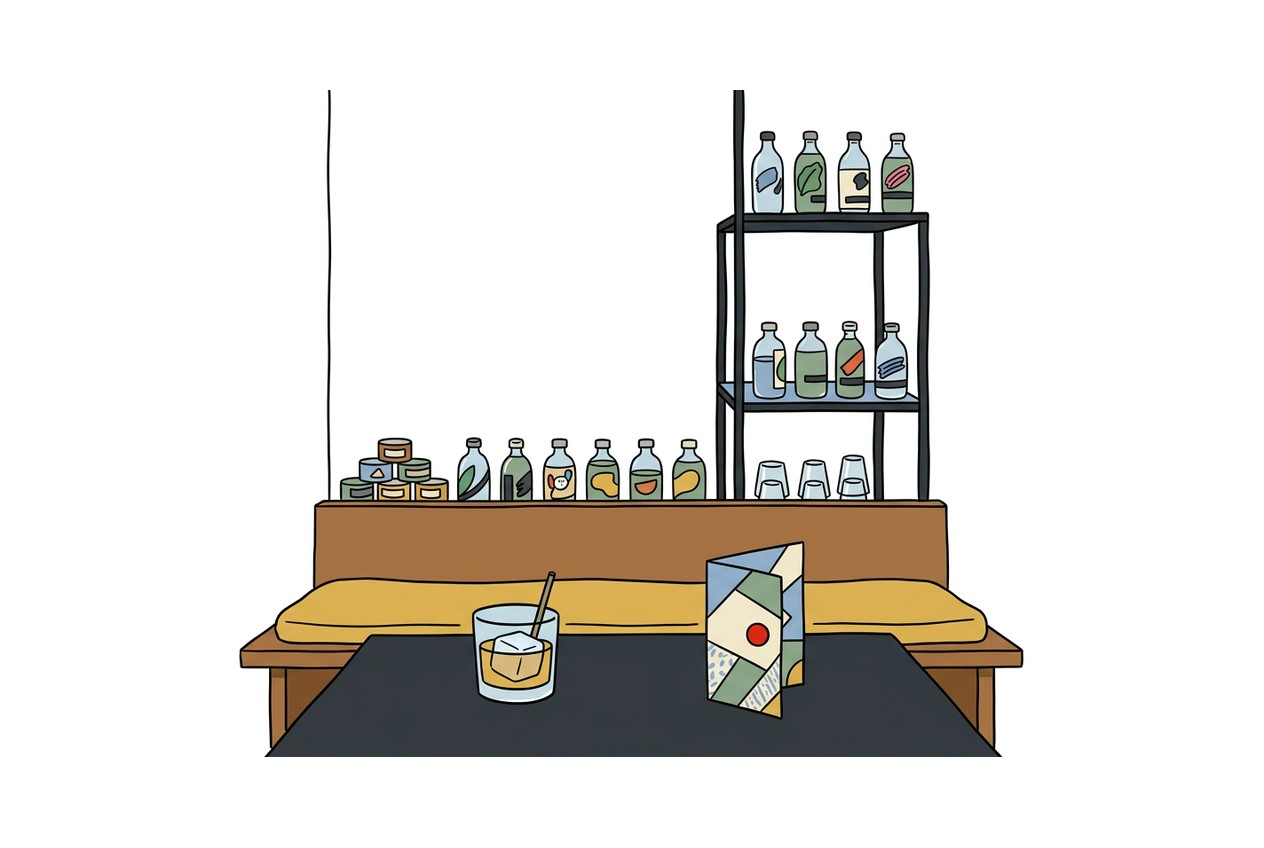
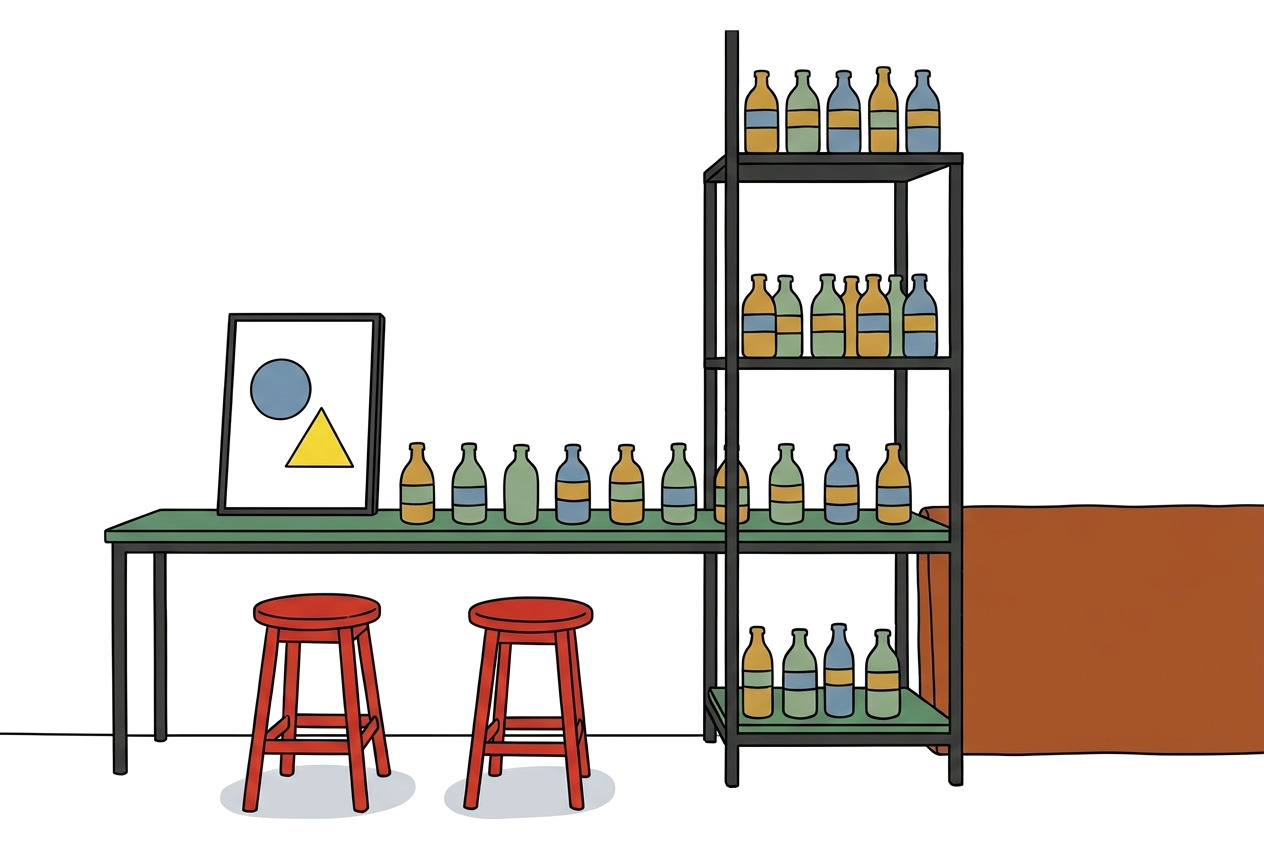
Redraw the five illustrations that read as the wrong place
First pass of the image audit, working from A1 of the README list.

Redrawn from their own photographs, at the published dimensions:

- illo-case-shapes-savage.jpg: the black steel bottle shelf on the green
  laminate table, colour-banded bottles, two red stools on the floor, the
  framed blue-circle / yellow-triangle poster standing on the table, the
  rust-brown wall panel. The stray frame lines, the diagonal strut and the
  floating card are gone.
- illo-case-sensory-talalay.jpg: the board with its lit rim, the iced
  tumbler, the two canapés, a second board behind on the same surface. The
  waterline is horizontal, the ice sits below it, the straw ends under the
  water, and the pastel confetti that broke the two-colour palette is gone.
- illo-case-dave-arnold.jpg: the pour now exists — tin raised, julep
  strainer over its mouth, a thin stream into the coupe held low, one curl
  of vapour on the glass; the counter has a front edge and the tools stand
  on it.
- illo-figure-zarkov.jpg: the man in the source photograph — long dark hair,
  beard, white tee, a single white armchair, the water bottle on the floor.
  The previous drawing was a different man in a café.
- illo-figure-talalay.jpg: behind the counter, one arm raised with a small
  tumbler, stone linen overshirt over the white tee with its red-orange
  circle, arches, bottle shelf and pendant lamp behind.

Each file was run through tools/normalize-artwork-paper.js so its paper is
[…]

diff --git a/presentation/build/illustration-prompts.md b/presentation/build/illustration-prompts.md
@@ -48,16 +48,33 @@ blank or carry ruled lines only.
 | `m10-mockup.png` | `illo-m10-mockup.jpg` | 1264 × 843 | A designer's bench: a person in a hoodie placing the last wall panel onto a cut-card model of a bar on a slim round turntable; a cutting mat with a plain ruler, a scalpel, a steel rule, a glue stick, a blank tablet with an empty plan outline, a clip-on task light and a plant — every surface blank, no lettering | the tiny pendant lamp in the model |
 | `case-benfiddich-kayama.png` | `illo-case-benfiddich-kayama.jpg` | 1264 × 848 | Hanging herbs, botanical jars and shelves, a mortar and a hand pouring a green drink into a glass | one small bottle cap |
 | `case-black-swan-bobkov.png` | `illo-case-black-swan-bobkov.jpg` | 1264 × 848 | Ornate door at left, framed art, an armchair, beer taps and a table with a teapot and candelabrum | the armchair cushion |
-| `case-shapes-savage.png` | `illo-case-shapes-savage.jpg` | 1264 × 848 | Three cocktails, a geometric menu and a hand with pencil; circle, square and triangle on the bar front | one cocktail garnish |
+| `case-shapes-savage.png` | `illo-case-shapes-savage.jpg` | 1264 × 848 | The room from the source photograph: black steel bottle shelving standing on a green laminate table, bottles carrying colour-coded bands; a framed poster with a blue circle and a yellow triangle standing on the table; two red stools on the floor in front; the rust-brown wall panel at the right | the two red stools |
 | `case-sips-caporale.png` | `illo-case-sips-caporale.jpg` | 1264 × 848 | Bartender shaking a drink inside an open round counter, guests’ hands and sculptural cocktail vessels | one cocktail garnish |
 | `case-el-copitas-zernov.png` | `illo-case-el-copitas-zernov.jpg` | 1264 × 848 | Courtyard with central arched doorway and curtain, paper bunting, potted plants, clay cups and cactus | one bunting flag |
 | `case-city-space-narzi.png` | `illo-case-city-space-narzi.jpg` | 1264 × 848 | Top-down L-shaped bar plan with stools, ice well, workflow arrows, bar tools and a stopwatch | a stopwatch button |
-| `case-sensory-talalay.png` | `illo-case-sensory-talalay.jpg` | 1264 × 848 | Pipette bottles and tasting glasses, an aroma glass with scent swirls, a hand with a test tube and a scale | one pipette cap |
+| `case-sensory-talalay.png` | `illo-case-sensory-talalay.jpg` | 1264 × 848 | The source photograph's board: a thick wooden serving board with a carved rim on a low foot, its rim traced by one thin pale-cyan neon line; a tall tumbler of iced water with a straw standing on it, a dark canapé at the left and a leaf-wrapped canapé at the right; one smaller paler board behind, both on the same surface | the red band at the top of the straw |
 | `case-jiro-ono.png` | `illo-case-jiro-ono.jpg` | 1264 × 848 | Diagonal sushi counter with one nigiri, rice tub, bamboo mats, knife, dipping dish and brush | the fish on the nigiri |
 | `case-krasota-zarkov.png` | `illo-case-krasota-zarkov.jpg` | 1264 × 848 | The circular projection table of Krasota seen from a raised angle: seascape and shoreline spread across the tabletop, a burning ship, a black central void, plates and glasses, the ring of guests, the curved screen of sea and blossom, two waiters standing at the far edge | the cushion beside the right-hand guest |
-| `case-dave-arnold.png` | `illo-case-dave-arnold.jpg` | 1264 × 848 | The bartender behind a plain white counter, shaker raised overhead, coupe glass in the lower hand with a curl of vapour, a jigger, fine strainer, stacked coupes and a mixing pitcher laid out along the counter | the ring on his finger |
+| `case-dave-arnold.png` | `illo-case-dave-arnold.jpg` | 1264 × 848 | The bartender in a charcoal sweater over a checked collar, pouring from a raised shaker tin through a julep strainer into a coupe held low in the other hand, a thin stream joining the two, one curl of vapour rising off the glass; a counter with a real front edge carrying a jigger, a fine strainer, two stacked coupes and a mixing pitcher, each group with one flat shadow | the ring on his finger |
 | `case-rene-redzepi.png` | `illo-case-rene-redzepi.jpg` | 1264 × 848 | The chef laughing with both hands on his hips, navy tee and grey canvas apron, herbs rising from the chest pocket, warm wall panel and a shelf of plain bowls behind him | the apron tie |
 | `case-alex-kratena.png` | `illo-case-alex-kratena.jpg` | 1264 × 848 | The bar owner in a black cap, clear glasses and a black utility gilet over a grey tee, phone in hand, tattooed left forearm, the second figure drawn in pale outline behind him, a sage-green bar front with a wooden top at the left | the stirrer standing in the glass on the counter |
+
+## Redraw pass — October 2026
+
+The case-card rows above were brought back in line with the published files. Three cards and two
+portraits were redrawn from their photographs because the resemblance had stopped being obvious; the
+review that produced the list, and the reasons for each call, are in `illustration-audit.md`.
+
+Redrawn: `illo-case-sensory-talalay.jpg` (the board, the iced glass and the lit rim of the
+photograph, instead of an invented pipette still life), `illo-case-shapes-savage.jpg` (the green
+table, colour-coded bottle shelf and red stools of the room), `illo-case-dave-arnold.jpg` (a real
+pour joined by a stream, a counter with an edge), `illo-figure-zarkov.jpg` and
+`illo-figure-talalay.jpg` (both were drawn as different men in different rooms than their sources).
+
+When redrawing from a photograph, keep the four anchors the reader uses to recognise a place: the
+room's palette, the counter material, the signature object and the subject's garment. Then check the
+picture against the list in `illustration-audit.md` §9 — support, hands, liquids, one horizon,
+palette, no foreground left in outline — before it is published.
 
 ## Lesson headers
 
@@ -105,6 +122,8 @@ replaced with blank panels, never retyped.
 | Asset | Source | Scene | Red accent |
 | --- | --- | --- | --- |
 | `illo-figure-zernov.jpg` | `figure-zernov.jpg` | Smiling man with round amber glasses and short beard, oversized black tee, takeaway cup with straw, brick basement pass with bamboo steamers, rice cooker and pendant lamp | the blank LED tally board |
+| `illo-figure-zarkov.jpg` | `figure-zarkov.jpg` | Long dark-brown hair and beard, white crew-neck tee, dark trousers, sitting relaxed in a white armchair with one ankle over the opposite knee, a clear water bottle on the paper floor beside the chair | the bottle cap |
+| `illo-figure-talalay.jpg` | `figure-talalay.jpg` | Bald man with round glasses and a short grey beard standing behind a bar counter, stone linen overshirt over a white tee, one arm raised with a small tumbler, the other hand flat on the counter; two arches, a bottle shelf and a pendant lamp behind | the round orange-red graphic on the tee |
 | `illo-author-passie-2022.jpg` | `author-passie-2022.jpg` | Blush-pink cake room: garlanded L-counter, white vintage espresso machine, crystal chandelier, pink retro TV, blank menu panels, folding chairs, round table | the rose bouquet in the vase |
 | `illo-author-coocoo-2024.jpg` | `author-coocoo-2024.jpg` | Hand pouring a glass coffee pot into a cobalt cup with two googly eyes on a tray, blue patterned tabletop, blue wall with cream band | the wall stripe at the top |
 | `illo-author-pacific-2024.jpg` | `author-pacific-2024.jpg` | Two-view sheet of the wedge-shaped blackened-steel Mirain station: ice wells, four built-in pumps, drip tray, hanging glasses, casters | one pump button |

diff --git a/presentation/build/illustration-audit.md b/presentation/build/illustration-audit.md
@@ -252,6 +252,14 @@ room's palette — and mark the two cards above for a redraw from the photograph
 
 ## 8. Fix plan
 
+**Progress, 28 October 2026.** The five P0 assets below were redrawn from their photographs and
+published: `illo-case-sensory-talalay.jpg`, `illo-case-shapes-savage.jpg`,
+`illo-case-dave-arnold.jpg`, `illo-figure-zarkov.jpg`, `illo-figure-talalay.jpg`. Each was checked
+against the §9 list before publishing. What is still wrong in them, honestly: the ink contour sits
+slightly thinner than the older drawings, the pour hand in the Dave Arnold card still closes over the
+tin rather than round its body, and the Sensory card keeps a single invented second board for depth.
+The remaining P1 and P2 items are carried in the README under *Image audit — October 2026*.
+
 **P0 — reads as the wrong place, redraw from the photograph**
 
 1. `illo-case-sensory-talalay` — dark room, neon rim-lit board, two canapés, one tall tumbler with
